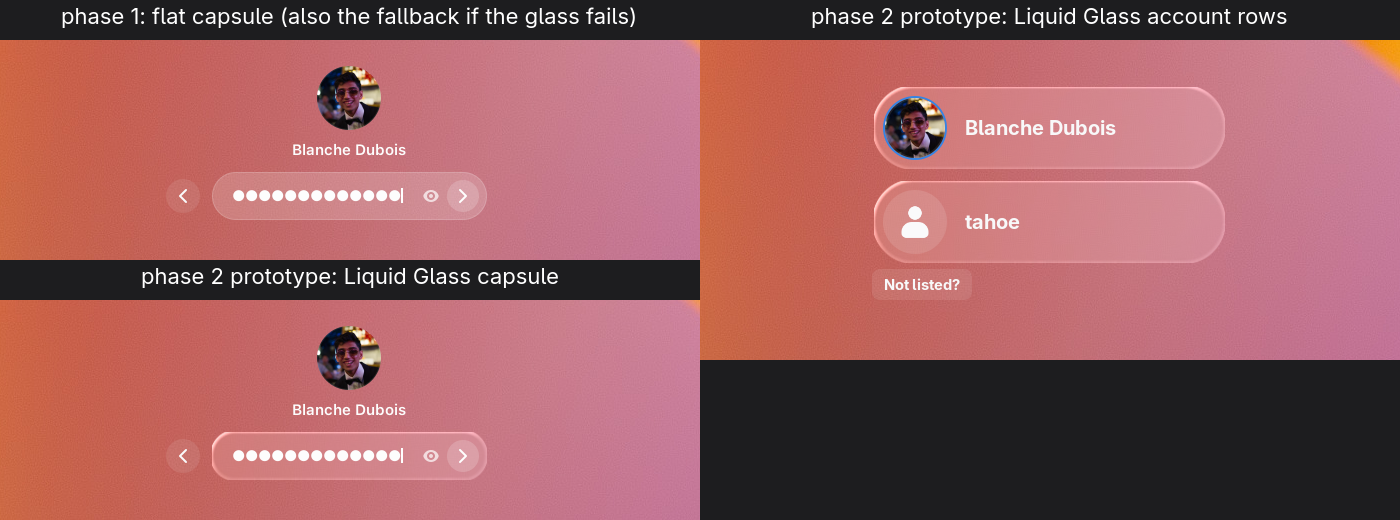
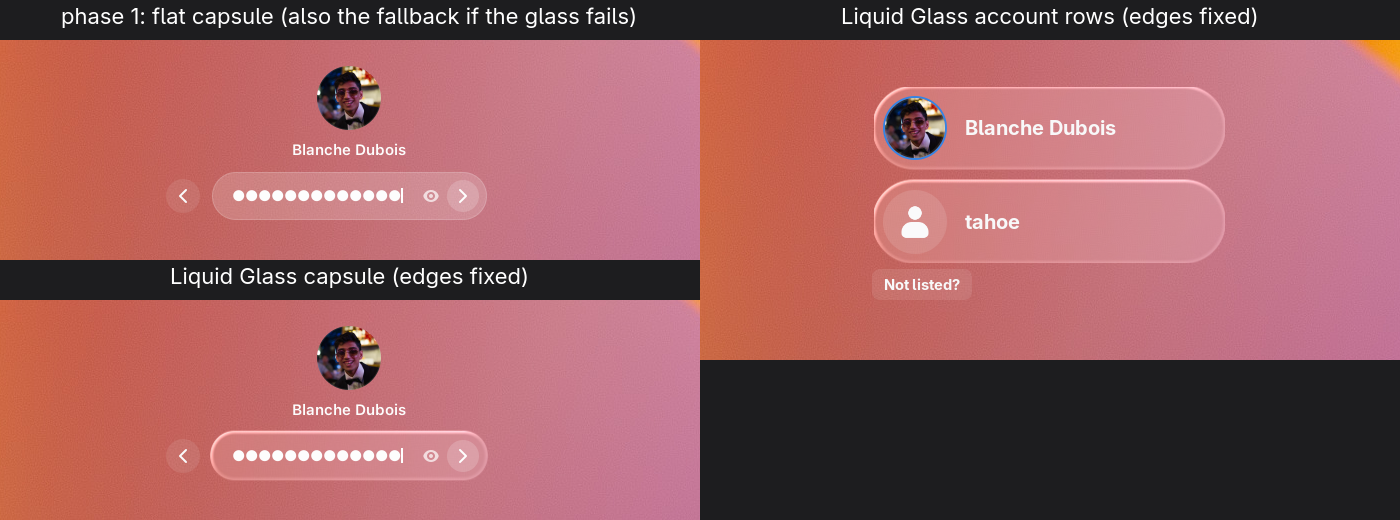
tahoe-gdm glass: full rims (no clipped edges), one edge on widget cards
The glass is an inner layer bigger than its slot by the bend plus 4 px, so
the bend samples real backdrop and the anti-aliased edge and rim are not
cut at the texture border. Widget test cards drop their CSS border on this
glass. Lock screen render with Now Playing plus weather and calendar.

diff --git a/extensions/tahoe-gdm@cachyos-tahoe/glass.js b/extensions/tahoe-gdm@cachyos-tahoe/glass.js
@@ -139,19 +139,25 @@ function roundedRect(cr, x, y, w, h, r) {
     cr.closePath();
 }
 
-// width, height: physical px; radius in physical px
-export function buildMask(width, height, radius, scale) {
+// The glass is drawn PAD logical px bigger than its shape on every side: the bend near the edge
+// samples the backdrop just outside the shape, and the shape's anti-aliased edge and rim must lie
+// inside the texture; drawn edge to edge, both were cut flat (worst at the corners).
+const PAD = Math.ceil(MATERIAL.bend) + 4;
+
+// width, height: the shape, physical px; radius, pad: physical px. The mask is the shape plus pad
+// on every side.
+export function buildMask(width, height, radius, scale, pad = 0) {
     if (MATERIAL._failForTest)   // set only by tools/gdm (GDM_FAIL_MASK)
         throw new Error('test: mask failed');
-    const surface = new Cairo.ImageSurface(Cairo.Format.RGB24, width, height);
+    const surface = new Cairo.ImageSurface(Cairo.Format.RGB24, width + 2 * pad, height + 2 * pad);
     const cr = new Cairo.Context(surface);
     cr.setSourceRGB(0, 0, 0);
     cr.paint();
-    roundedRect(cr, 0, 0, width, height, radius);
+    roundedRect(cr, pad, pad, width, height, radius);
     cr.setSourceRGB(1, 0, 1);
     cr.fill();
     // green, depth: the shape eaten from the outline inwards a step at a time (as glassclock.js)
-    roundedRect(cr, 0, 0, width, height, radius);
+    roundedRect(cr, pad, pad, width, height, radius);
     cr.pushGroup();
     cr.setOperator(Cairo.Operator.OVER);
     cr.setSourceRGB(0, 1, 0);
@@ -195,17 +201,20 @@ export const GlassPane = GObject.registerClass({
         super._init({
             name: 'tahoe-gdm-glass',
             reactive: false,
-            clip_to_allocation: true,
             x_expand: true,
             y_expand: true,
         });
         this._radius = radius;
+        // the glass itself: PAD px bigger than this pane on every side (the pane does not clip),
+        // holding the backdrop and running the effect over its own allocation
+        this._glass = new St.Widget({reactive: false, clip_to_allocation: true});
+        this.add_child(this._glass);
         this._backdrop = backdrop instanceof Clutter.Actor
             ? new Clutter.Clone({source: backdrop})
             : new St.Widget({style: `background-image: url("${backdrop.get_uri()}"); background-size: cover;`});
-        this.add_child(this._backdrop);
+        this._glass.add_child(this._backdrop);
         this._effect = new GlassEffect();
-        this.add_effect_with_name('tahoe-gdm-glass', this._effect);
+        this._glass.add_effect_with_name('tahoe-gdm-glass', this._effect);
         this._maskSize = '';
         this._maskId = 0;
         this.failed = null;   // set when the mask could not be made; the owner then removes the pane
@@ -226,11 +235,15 @@ export const GlassPane = GObject.registerClass({
 
     vfunc_allocate(box) {
         this.set_allocation(box);
+        const g = new Clutter.ActorBox();
+        g.set_origin(-PAD, -PAD);
+        g.set_size(box.get_width() + 2 * PAD, box.get_height() + 2 * PAD);
+        this._glass.allocate(g);
         // the backdrop covers the monitor, placed so it lines up with the real background
         const monitor = Main.layoutManager.primaryMonitor;
         const [sx, sy] = this.get_transformed_position();
         const b = new Clutter.ActorBox();
-        b.set_origin(monitor.x - sx, monitor.y - sy);
+        b.set_origin(monitor.x - (sx - PAD), monitor.y - (sy - PAD));
         b.set_size(monitor.width, monitor.height);
         this._backdrop.allocate(b);
 
@@ -246,7 +259,8 @@ export const GlassPane = GObject.registerClass({
                     return GLib.SOURCE_REMOVE;
                 try {
                     const r = this._radius === 'capsule' ? ph / 2 : this._radius * scale;
-                    this._effect.setMask(buildMask(pw, ph, r, scale), pw, ph, scale);
+                    const pad = PAD * scale;
+                    this._effect.setMask(buildMask(pw, ph, r, scale, pad), pw + 2 * pad, ph + 2 * pad, scale);
                     this._maskSize = `${pw}x${ph}`;
                 } catch (e) {
                     this.failed = `${e}`;

diff --git a/tools/gdm/widgets-test@local/extension.js b/tools/gdm/widgets-test@local/extension.js
@@ -37,7 +37,7 @@ function findBelow(root, styleClass) {
 export default class {
     enable() {
         this._widgets = [];
-        this._timer = GLib.timeout_add(0, 2500, () => {
+        this._timer = GLib.timeout_add(0, Number(GLib.getenv("WIDGETS_TEST_DELAY") || 2500), () => {
             this._timer = 0;
             try { this._build(); } catch (e) { console.warn(`widgets-test: ${e}\n${e.stack}`); }
             return false;
@@ -77,7 +77,7 @@ export default class {
                 layout_manager: new Clutter.BinLayout(), width: w, height: h, x, y,
             });
             card.add_child(new GlassPane(backdrop, 24));
-            const content = new St.Widget({style_class: 'tahoe-widget-content', layout_manager: new Clutter.BinLayout(), x_expand: true, y_expand: true});
+            const content = new St.Widget({style_class: 'tahoe-widget-content', style: 'border-width: 0;', layout_manager: new Clutter.BinLayout(), x_expand: true, y_expand: true});
             const widget = new cls();
             content.add_child(widget.actor);
             card.add_child(content);

diff --git a/docs/GDM_PLAN.md b/docs/GDM_PLAN.md
@@ -166,7 +166,13 @@ access to the user's home. Planned after phase 1.
   0 panes, rows back to GNOME's own), the password field stays where it was with phase 1's capsule.
 - Still to do before installing: a watchdog like tahoe-lockscreen's frame.js (entry visible,
   on screen, clickable), the lock screen's capsule in the same glass (tahoe-lockscreen), real-login check.
-- Shots: `docs/gdm/phase2-glass-controls.png`.
+- Edges: drawn edge to edge, the bend sampled past the pane and the rim was cut flat (the user:
+  "the rounding is clipped"). The glass is now an inner layer PAD (bend + 4) px bigger than its
+  slot on every side, the mask the shape plus that margin, so the anti-aliased edge and the rim
+  lie inside the texture. (A clip on the pane instead does not resize the effect's texture.)
+  The widget cards' CSS rim (`.tahoe-widget-content` border) is off on this glass: the shader's
+  rim is the only edge.
+- Shots: `docs/gdm/phase2-glass-controls.png`, `docs/gdm/phase2-corners.png` (before/after, 6x).
 
 ### Weather and calendar widgets
 
@@ -191,4 +197,9 @@ tahoe-widgets' WeatherSmall, CalendarDay and CalendarMonth on the glass panes ab
   login screen and makes the login screen fetch weather over the network.
 - Legibility: white text on the glass is fine on the darker parts of the wallpaper, weak on the
   bright yellow (weekend dates in the month, the calendar's red weekday on magenta).
-- Shots: `docs/gdm/widgets-workshop.png`, `docs/gdm/widgets-closeup.png`.
+- With music (lock harness `TAHOE_LOCK_PLAYER=1`): Now Playing (wide, 1.5x, 534 px) with the two
+  small widgets under it (356 px): the row is narrower than the card, and Now Playing's glass is
+  Blur My Shell's while the widgets use this shader; both would need matching.
+- Music on the login screen: not possible in a useful way: nobody is logged in, so no player runs,
+  and the greeter (user gdm) cannot see a user session's players.
+- Shots: `docs/gdm/widgets-workshop.png`.
